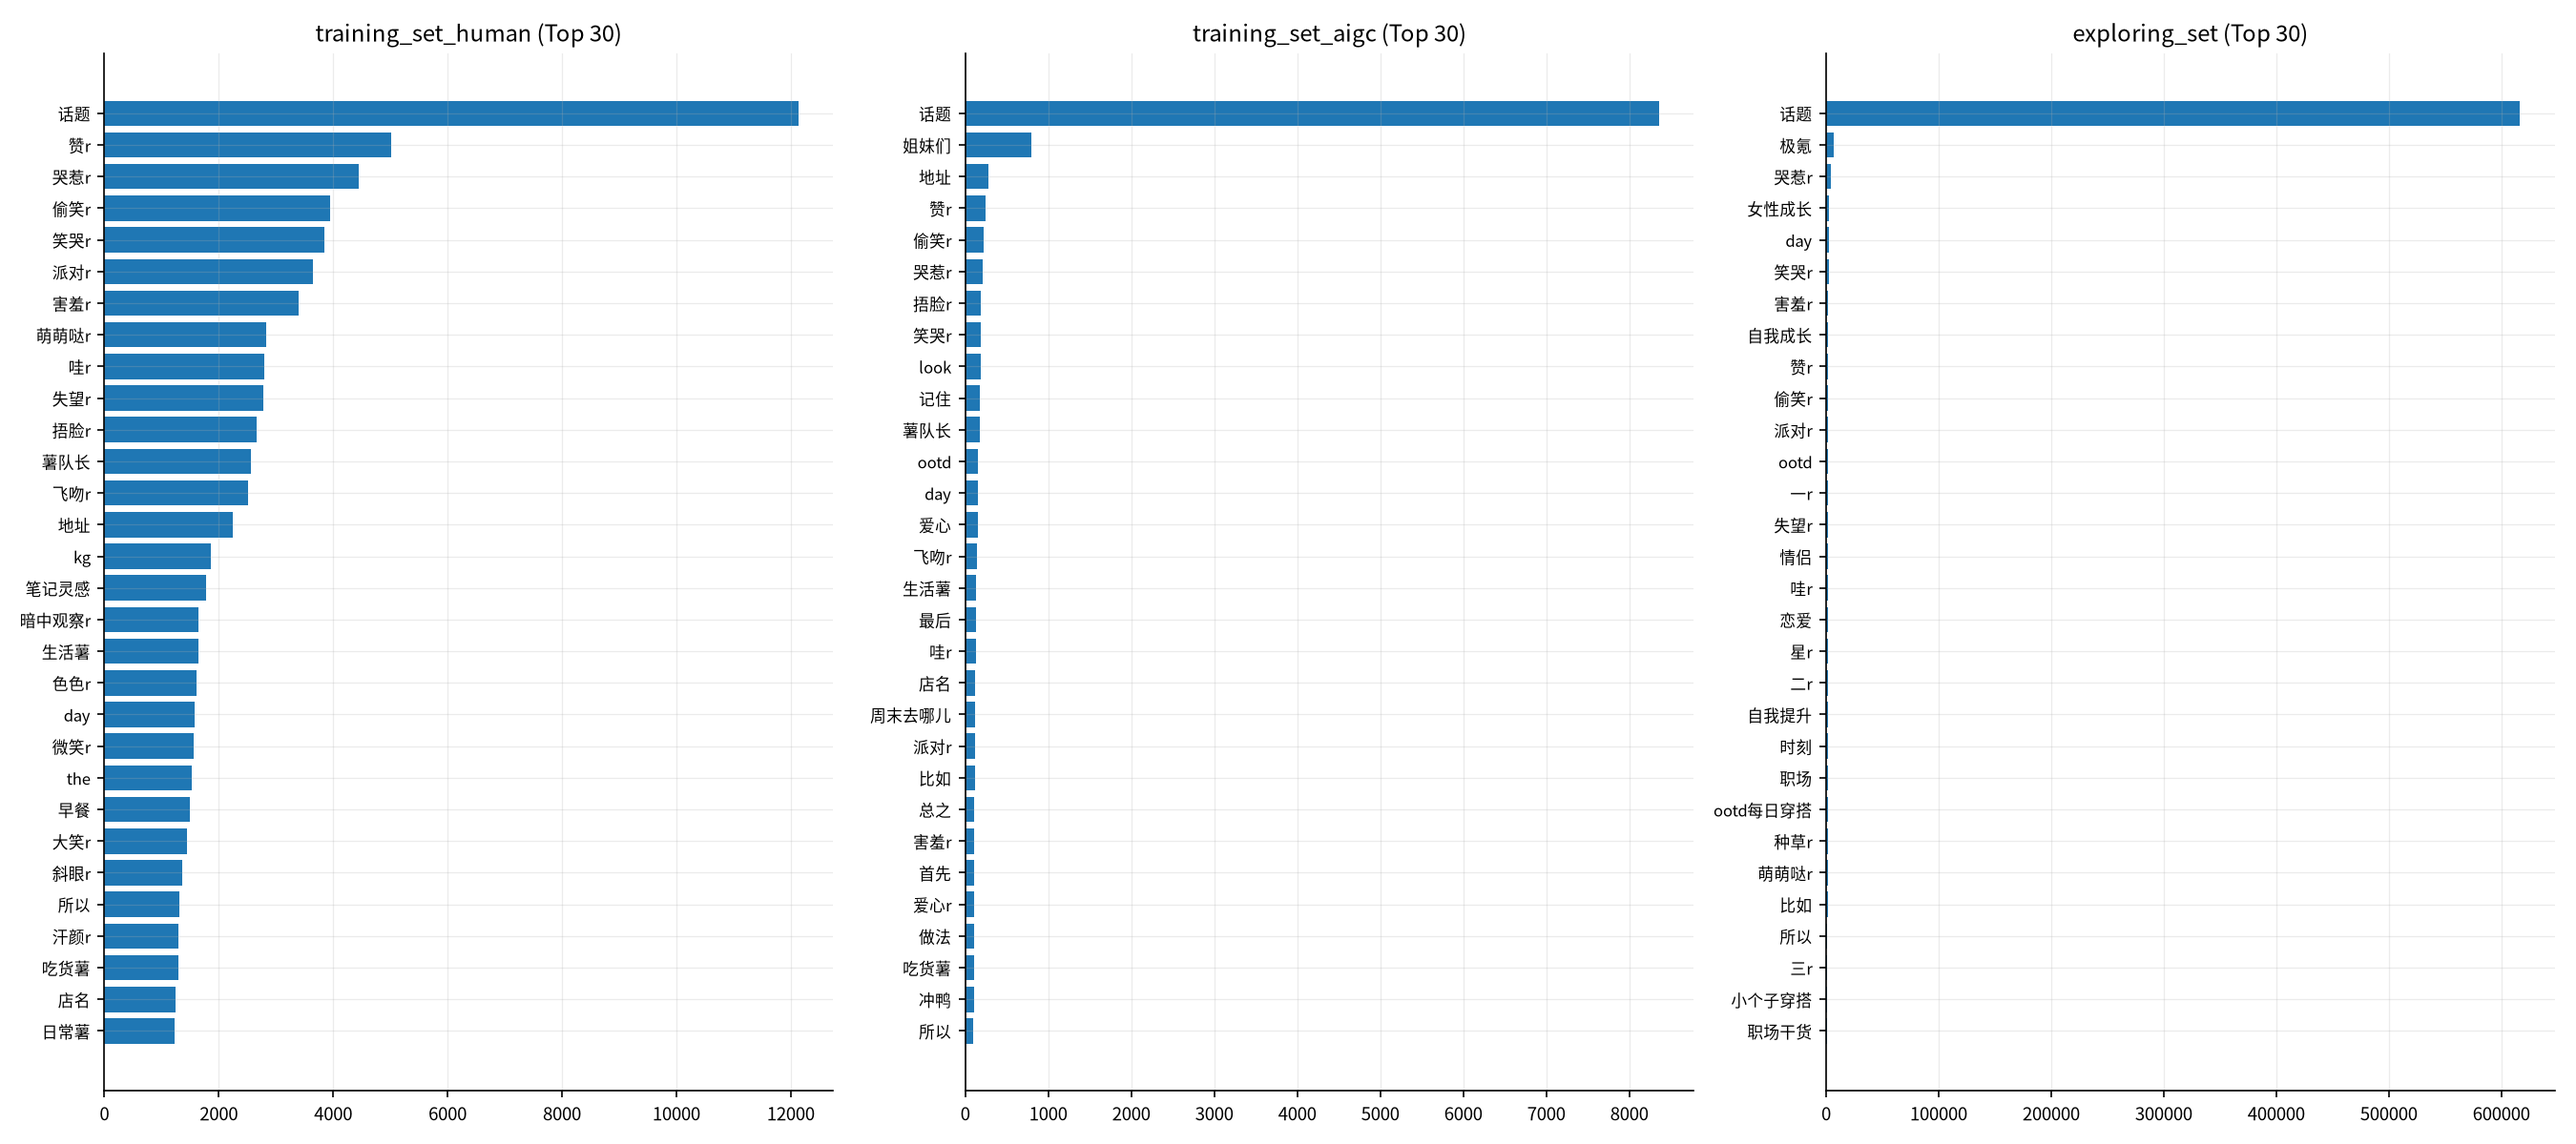
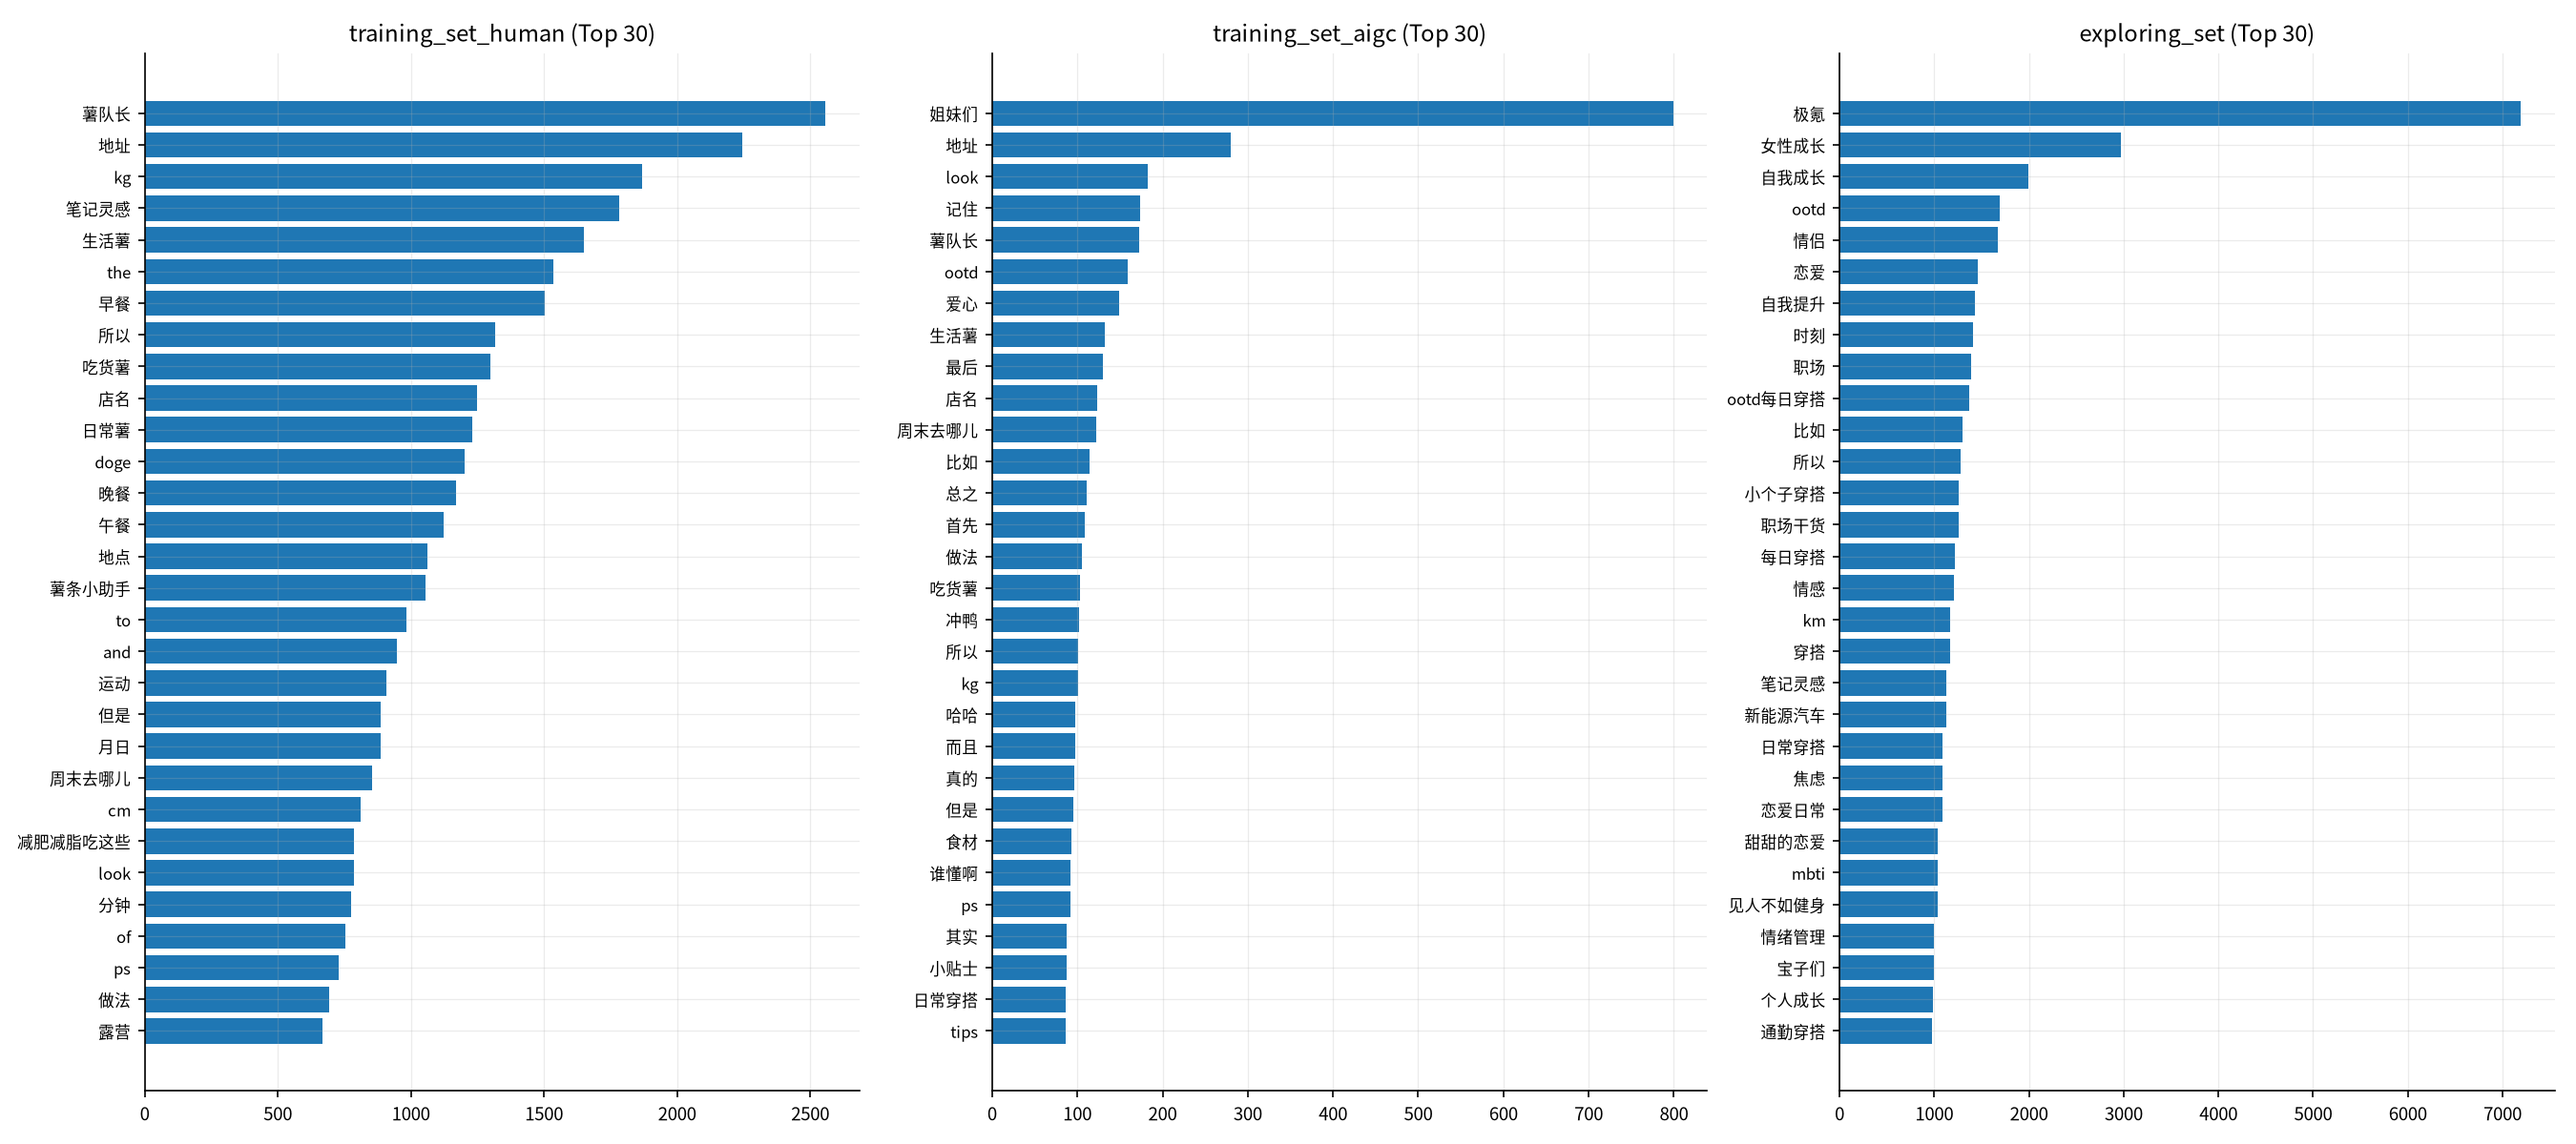
auto: iteration 1-bug [model: opencode/deepseek-v4.1-flash-free]

diff --git a/more_analysis.py b/more_analysis.py
@@ -1,5 +1,4 @@
 # -*- coding: utf-8 -*-
-import heapq
 import json
 import random
 import re
@@ -9,6 +8,8 @@ from collections import Counter
 RE_DIGITS = re.compile(r"\d+")
 # 连续的非 \w 字符（标点/空白）作为分隔符直接切词，等价于原先「标点→空格再 split」。
 RE_NONWORD = re.compile(r"[^\w]+")
+# 小红书表情占位符（如 [笑哭R]）不是词，先删掉再分词（口径同 word_freq_analysis）。
+RE_XHS_EMO = re.compile(r"\[[^\[\]]{1,8}R\]")
 RE_HASHTAG = re.compile(r"#(\w+)")
 RE_LINK = re.compile(r"http[s]?://|www\.")
 
@@ -104,6 +105,7 @@ def tokenize(text):
     if not text:
         return []
     text = str(text)
+    text = RE_XHS_EMO.sub(" ", text)
     text = RE_DIGITS.sub("", text)
     words = RE_NONWORD.split(text.lower())
     return [w for w in words if len(w) > 1 and w not in STOPWORDS]
@@ -190,16 +192,18 @@ def stream_all(filepath, sample_size=5000, seed=42):
             for bigram in zip(words_title, words_title[1:]):
                 bigrams_title[bigram] += 1
         if text:
-            ling_desc["exclaim"] += text.count("!")
-            ling_desc["question"] += text.count("?")
-            ling_desc["ellipsis"] += text.count("...")
+            ling_desc["exclaim"] += text.count("!") + text.count("！")
+            ling_desc["question"] += text.count("?") + text.count("？")
+            ling_desc["ellipsis"] += (text.count("...") + text.count("…")
+                                      + text.count("。。。"))
             ling_desc["upper"] += sum(map(str.isupper, text))
             ling_desc["digit"] += sum(map(str.isdigit, text))
             ling_desc["link"] += len(RE_LINK.findall(text))
         if title:
-            ling_title["exclaim"] += title.count("!")
-            ling_title["question"] += title.count("?")
-            ling_title["ellipsis"] += title.count("...")
+            ling_title["exclaim"] += title.count("!") + title.count("！")
+            ling_title["question"] += title.count("?") + title.count("？")
+            ling_title["ellipsis"] += (title.count("...") + title.count("…")
+                                       + title.count("。。。"))
             ling_title["upper"] += sum(map(str.isupper, title))
             ling_title["digit"] += sum(map(str.isdigit, title))
             ling_title["link"] += len(RE_LINK.findall(title))
@@ -245,23 +249,24 @@ def analyze_unique_words(freqs, files, word_sets=None):
             f1, f2 = files[i], files[j]
             freq1, freq2 = freqs[i], freqs[j]
             keys_j = word_sets[j]
-            sorted1 = [
-                (w, freq1[w])
-                for w in heapq.nlargest(30, keys_i - keys_j, key=freq1.__getitem__)
-            ]
-            sorted2 = [
-                (w, freq2[w])
-                for w in heapq.nlargest(30, keys_j - keys_i, key=freq2.__getitem__)
-            ]
+            sorted1 = sorted(
+                ((w, freq1[w]) for w in keys_i - keys_j),
+                key=lambda x: (-x[1], x[0]),
+            )[:30]
+            sorted2 = sorted(
+                ((w, freq2[w]) for w in keys_j - keys_i),
+                key=lambda x: (-x[1], x[0]),
+            )[:30]
             key1 = f1 + "_unique_in_" + f2
             key2 = f2 + "_unique_in_" + f1
             results[key1] = sorted1
             results[key2] = sorted2
     common = set.intersection(*word_sets)
     totals = {w: sum(f.get(w, 0) for f in freqs) for w in common}
-    results["common_words"] = [
-        (w, totals[w]) for w in heapq.nlargest(50, totals, key=totals.get)
-    ]
+    results["common_words"] = sorted(
+        ((w, totals[w]) for w in common),
+        key=lambda x: (-x[1], x[0]),
+    )[:50]
     return results
 
 

diff --git a/additional_analysis.py b/additional_analysis.py
@@ -1,5 +1,4 @@
 # -*- coding: utf-8 -*-
-import heapq
 import json
 import re
 import numpy as np
@@ -98,6 +97,8 @@ STOPWORDS = set(
         "jiang",
         "dui",
         "ke",
+        "话题",
+        "day",
     ]
 )
 
@@ -105,12 +106,15 @@ STOPWORDS = set(
 RE_DIGITS = re.compile(r"\d+")
 # 连续的非 \w 字符（标点/空白）作为分隔符直接切词，等价于原先「标点→空格再 split」。
 RE_NONWORD = re.compile(r"[^\w]+")
+# 小红书表情占位符（如 [笑哭R]）不是词，先删掉再分词（口径同 word_freq_analysis）。
+RE_XHS_EMO = re.compile(r"\[[^\[\]]{1,8}R\]")
 
 
 def tokenize(text):
     if not text:
         return []
     text = str(text)
+    text = RE_XHS_EMO.sub(" ", text)
     text = RE_DIGITS.sub("", text)
     words = RE_NONWORD.split(text.lower())
     return [w for w in words if len(w) > 1 and w not in STOPWORDS]
@@ -204,14 +208,14 @@ def analyze_unique_words(freqs, files, word_sets=None):
                                           start=i + 1):
             keys2 = word_sets[j]
 
-            unique1_top = [
-                (w, freq1[w])
-                for w in heapq.nlargest(20, keys1 - keys2, key=freq1.__getitem__)
-            ]
-            unique2_top = [
-                (w, freq2[w])
-                for w in heapq.nlargest(20, keys2 - keys1, key=freq2.__getitem__)
-            ]
+            unique1_top = sorted(
+                ((w, freq1[w]) for w in keys1 - keys2),
+                key=lambda x: (-x[1], x[0]),
+            )[:20]
+            unique2_top = sorted(
+                ((w, freq2[w]) for w in keys2 - keys1),
+                key=lambda x: (-x[1], x[0]),
+            )[:20]
 
             results[f"{f1}_unique_in_{f2}"] = unique1_top
             results[f"{f2}_unique_in_{f1}"] = unique2_top

diff --git a/internal_detailed_analysis.py b/internal_detailed_analysis.py
@@ -277,13 +277,16 @@ def scan(path):
         if lt and len(lt) >= 6:
             months[lt[:6]] += 1
 
-        # 12. 标点
+        # 12. 标点（与 internal_diff_analysis / paper_features 同口径：
+        #     省略号同时统计 ASCII "..."、Unicode "…" 与中文 "。。。"）
         punct_c["!"] += content.count("!") + content.count("！")
         punct_c["?"] += content.count("?") + content.count("？")
-        punct_c["..."] += content.count("...")
+        punct_c["..."] += (content.count("...") + content.count("…")
+                           + content.count("。。。"))
         punct_t["!"] += title.count("!") + title.count("！")
         punct_t["?"] += title.count("?") + title.count("？")
-        punct_t["..."] += title.count("...")
+        punct_t["..."] += (title.count("...") + title.count("…")
+                           + title.count("。。。"))
 
         # 13. 领域-长度
         d = item.get("domain", "Unknown")

diff --git a/extended_analysis.py b/extended_analysis.py
@@ -160,7 +160,9 @@ def extract_emoji_face(text):
 def extract_punctuation(text):
     if not text:
         return {}
-    punctuation = re.findall(r"([!?。.,，:\"\'\-\(\)【】{}《》])", str(text))
+    # ASCII 与对应全角标点都要统计：中文语料里 ！？：远超其半角形式，
+    # 只统计半角会让热图低估主要句末标点（与各脚本统一的「半角+全角」口径一致）。
+    punctuation = re.findall(r"([!?。.,，:：！？\"\'\-\(\)【】{}《》])", str(text))
     return Counter(punctuation)
 
 
